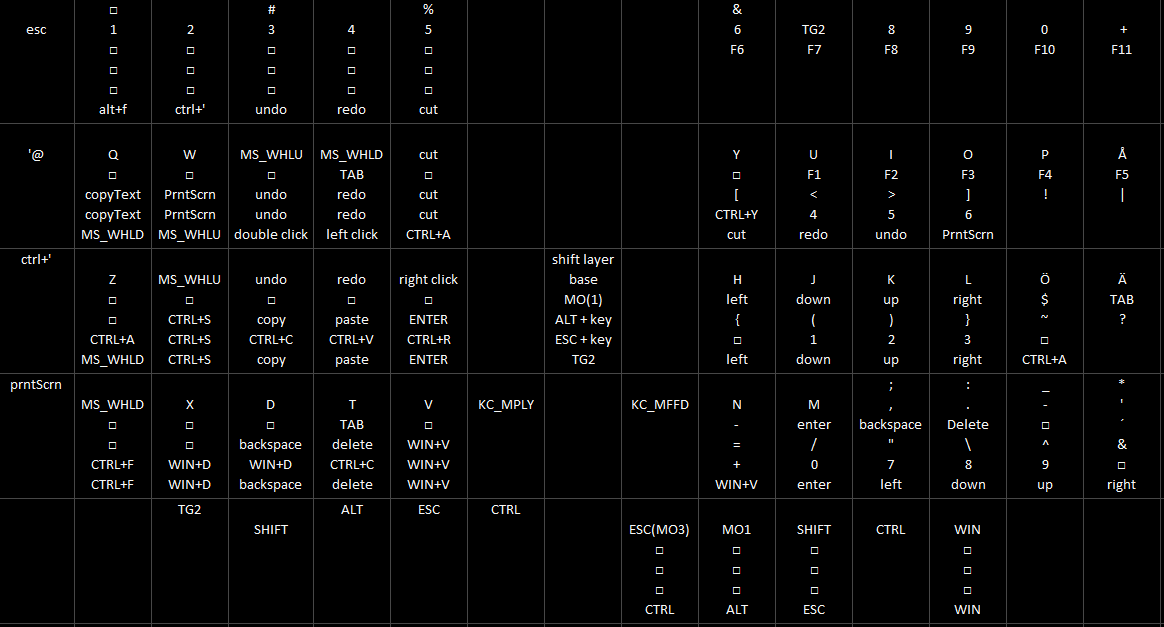
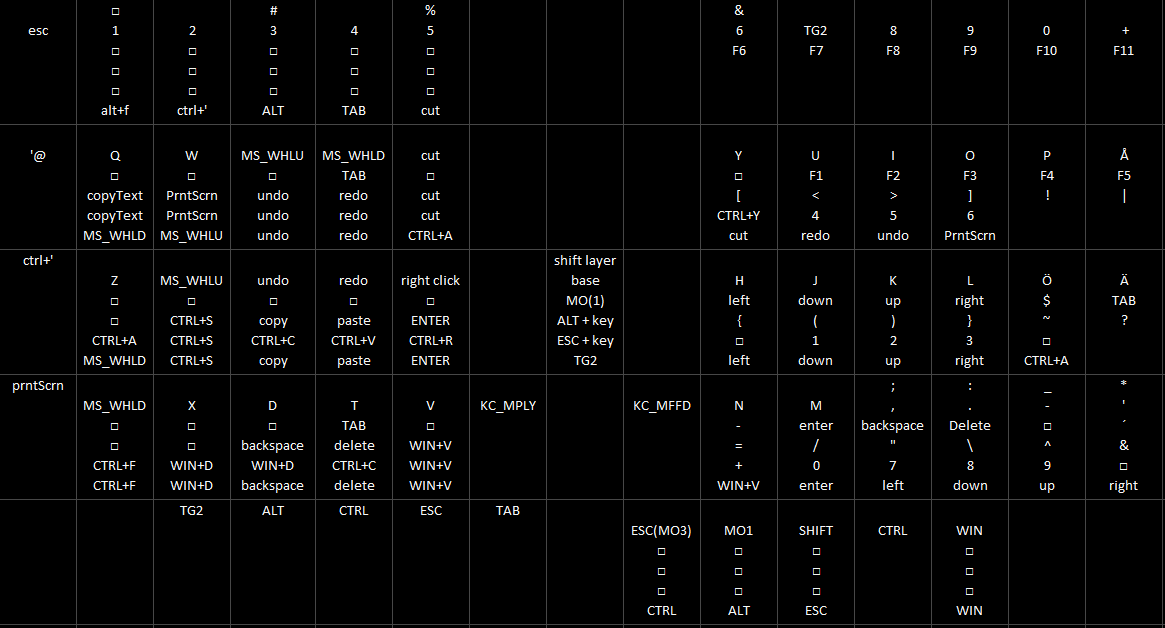
moved back undo/redo and added alt+tab

diff --git a/keyboards/sofle/keymaps/malin/keymap.c b/keyboards/sofle/keymaps/malin/keymap.c
@@ -40,7 +40,7 @@ KC_CAPS,    MO(1),      KC_LSFT,    KC_LCTL,    KC_LGUI
             KC_LCTL,    KC_Z,       KC_W,       KC_X,       KC_TAB,     KC_R,  
             KC_LSFT,    KC_NO,      KC_F,       KC_D,       KC_B,       KC_G,
             TG(2),      SE_RABK,    SE_PIPE,    KC_V,       KC_TAB,     KC_T,         KC_MPLY,
-                                    TG(2),      SE_PIPE,    KC_V,       KC_ESC,        KC_LCTL,
+                                    TG(2),      SE_PIPE,    KC_V,       KC_ESC,       KC_LCTL,
 
         // Right half
             KC_F6,      KC_F7,      KC_F8,      KC_F9,      KC_F10,     KC_F11,
@@ -53,11 +53,11 @@ KC_CAPS,    MO(1),      KC_LSFT,    KC_LCTL,    KC_LGUI
     [2] = LAYOUT_SPLIT_WRAPPER(
 
         // Left half
-            KC_ESC,        LALT(KC_F),  LCTL(KC_NUHS), LCTL(KC_Z),   LCTL(KC_Y),    LCTL(KC_X),
-            SE_AT,         MS_WHLD,     MS_WHLU,       KC_F13,       MS_BTN1,       LCTL(KC_A),
-            LCTL(KC_NUHS), MS_WHLD,     LCTL(KC_S),    LCTL(KC_C),   LCTL(KC_V),    KC_ENT,
-            G(S(KC_S)),    LCTL(KC_F),  LGUI(KC_D),    KC_BSPC,      KC_DEL,        LGUI(KC_V),    KC_MPLY,
-                                        TG(2),         KC_LSFT,      KC_LALT,       KC_ESC,        KC_LCTL,
+            KC_ESC,        LALT(KC_F),  LCTL(KC_NUHS), KC_LALT,         KC_TAB,           LCTL(KC_X),
+            SE_AT,         MS_WHLD,     MS_WHLU,       LCTL(KC_Z),      LCTL(KC_Y),       LCTL(KC_A),
+            LCTL(KC_NUHS), MS_WHLD,     LCTL(KC_S),    LCTL(KC_C),      LCTL(KC_V),       KC_ENT,
+            G(S(KC_S)),    LCTL(KC_F),  LGUI(KC_D),    KC_BSPC,         KC_DEL,           LGUI(KC_V),    KC_MPLY,
+                                        TG(2),         KC_LALT,         KC_LCTL,          KC_ESC,        KC_TAB,
 
         // Right half
             KC_6,       TG(2),      KC_8,       KC_9,       KC_0,       SE_PLUS,
